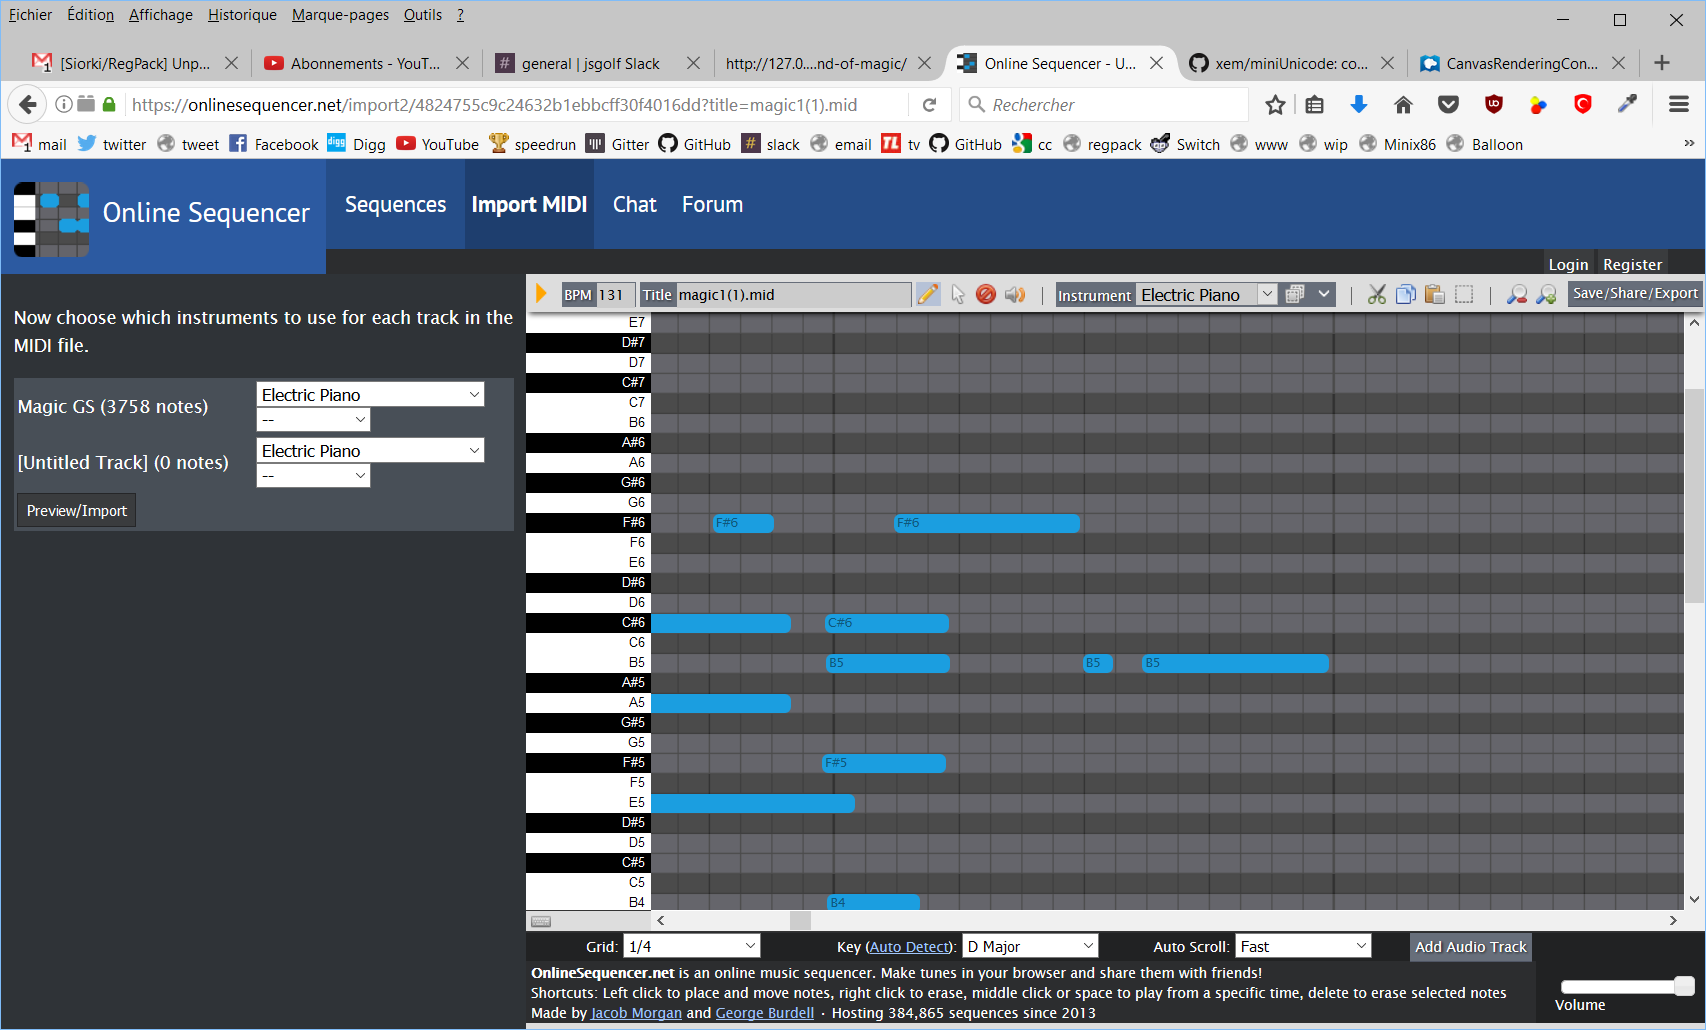
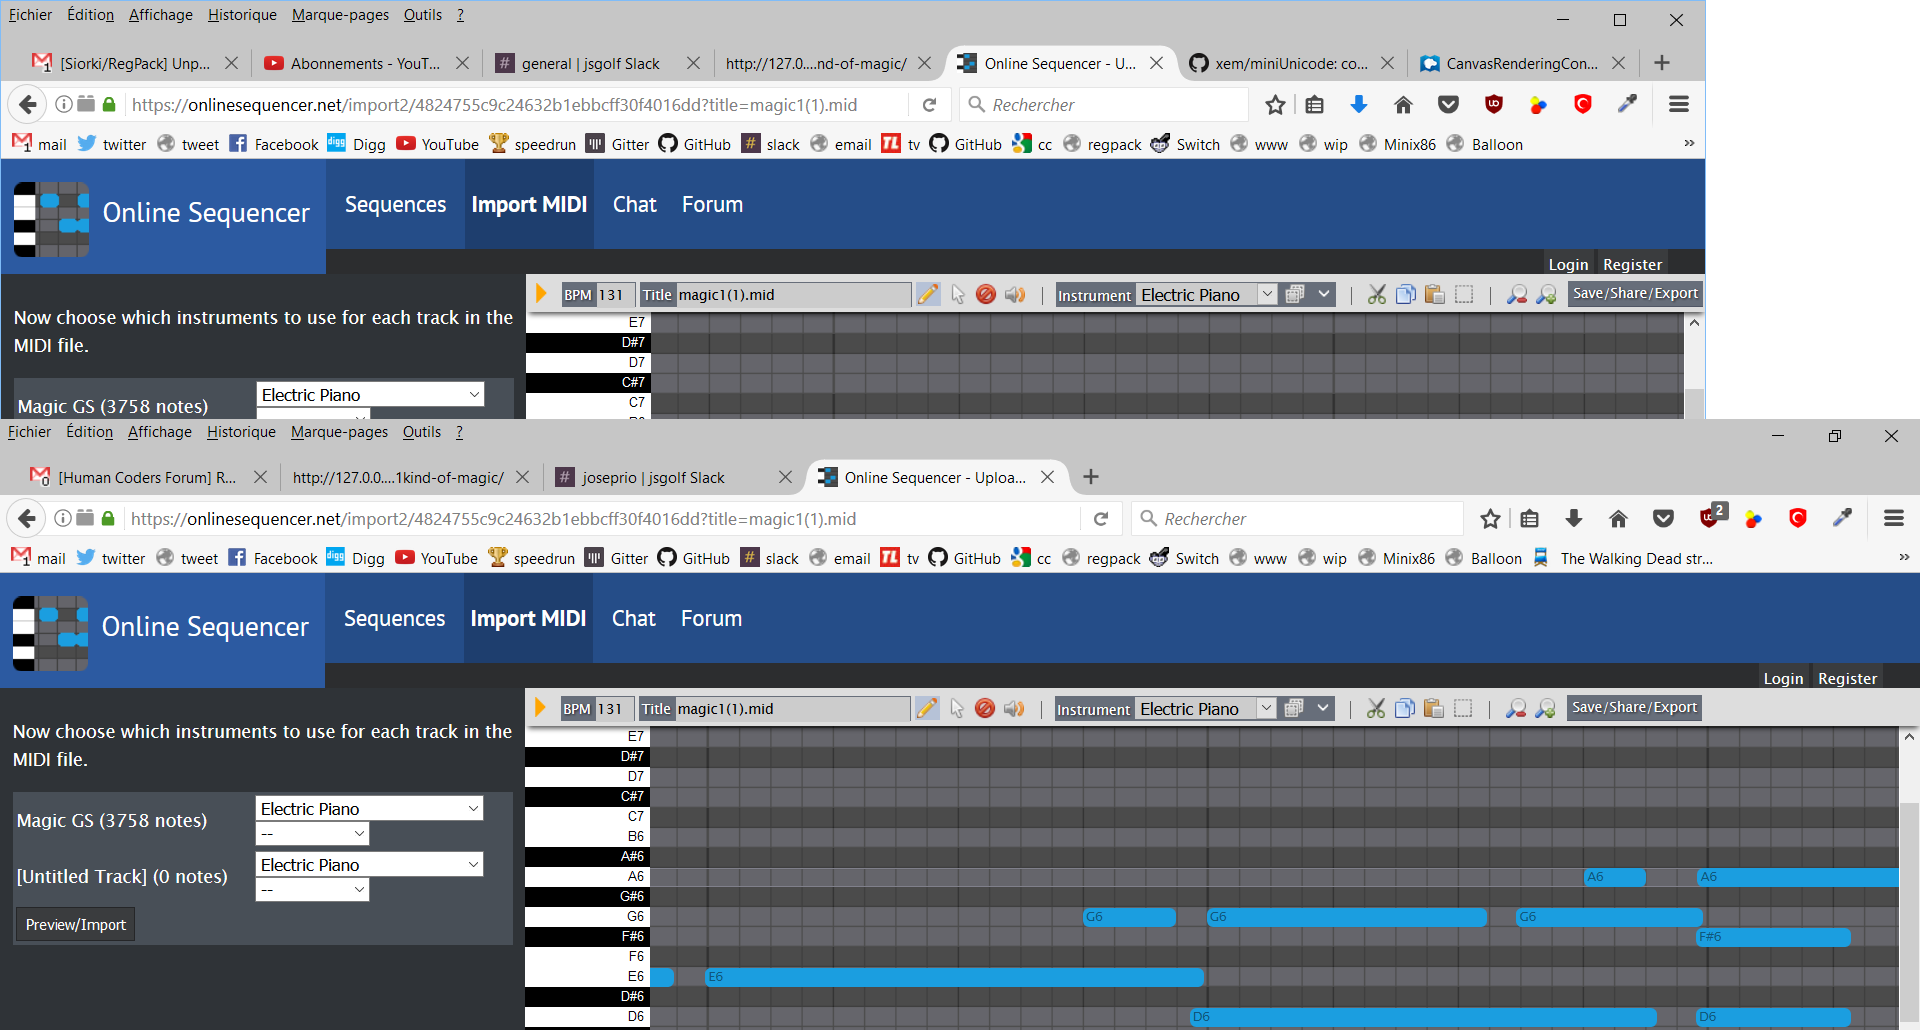
more

diff --git a/index.html b/index.html
@@ -179,7 +179,6 @@ D =
 99,1,
 0,20,
 
-
 99,2,
 2,4,
 99,1,
@@ -209,6 +208,124 @@ D =
 -7,1,
 99,1,
 0,6,
+
+99,12,
+7,3,
+99,1,
+-2,2,
+2,8,
+99,2,
+-2,1,
+-2,2,
+99,1,
+2,1,
+2,14,
+-9,1,
+2,2,
+99,1,
+2,2,
+99,1,
+0,18,
+99,4,
+8,2,
+99,2,
+0,8,
+99,2,
+0,1,
+99,1,
+2,3,
+99,1,
+-2,8,
+99,4,
+0,2,
+99,2,
+0,2,
+-3,3,
+99,1,
+0,1,
+99,1,
+0,2,
+-3,6,
+
+99,13,
+6,4,
+99,1,
+0,2,
+2,7,
+99,1,
+-2,5,
+99,13,
+-12,1,
+99,1,
+2,3,
+99,1,
+2,3,
+99,1,
+0,7,
+
+99,10,
+0,1,
+99,1,
+0,7,
+99,1,
+5,7,
+99,1,
+-5,14,
+-2,3,
+99,1,
+0,2,
+99,1,
+-2,2,
+99,1,
+0,7,
+99,1,
+2,2,
+99,12,
+2,1,
+99,1,
+0,9,
+99,1,
+1,4,
+99,2,
+-1,12,
+5,3,
+99,1,
+0,2,
+-2,1,
+
+99,1,
+0,1,
+99,1,
+0,20,
+99,4,
+2,4,
+99,1,
+0,10,
+99,3,
+0,9,
+99,8,
+-9,1,
+2,2,
+2,22,
+99,4,
+5,3,
+99,1,
+0,11,
+99,1,
+3,3,
+99,1,
+0,14,
+99,1,
+0,20,
+99,10,
+-5,3,
+99,1,
+0,12,
+3,3,
+99,1,
+0,11,
+99,1
+
 
 ];
 
